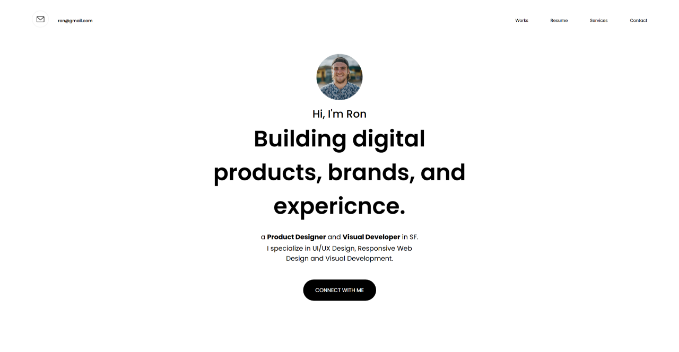
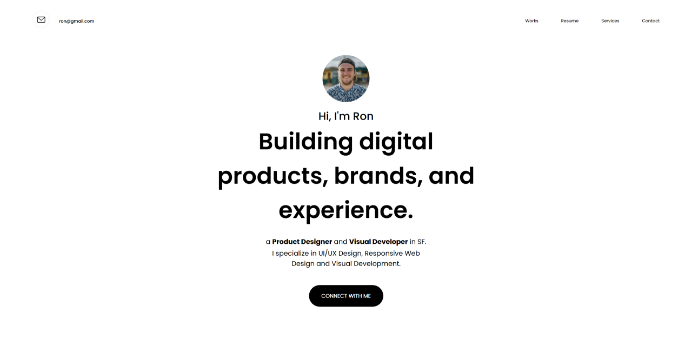
changed one portfolio img

diff --git a/index.html b/index.html
@@ -131,8 +131,15 @@
 					</div>
 				</div>
 				<div class="col-lg-6 about-content wow fadeInLeft" data-wow-duration=".2s" data-wow-delay=".6s">
-					<p>Living in the 21st century, it has become a necessity to have a website for your business, whether it be big or small. Without a website, you are potentially losing a great number of opportunities for your business. A website for your business helps to accomplish a number of different marketing strategies that allows for rapid growth of your business. </p>
-					<p>Taking a concept as simple as 'reach', the web has a far wider reach than any other form of advertising. This has been proven time and time again by various different marketing strategists. A businesses website is the center of your online presence... Through this website, you advertise your business worldwide through various different social networking sites, forums and through pay per click advertising programs.</p>
+					<p>Living in the 21st century, it has become a necessity to have a website for your business,
+						whether it be big or small. Without a website, you are potentially losing a great number of
+						opportunities for your business. A website for your business helps to accomplish a number of
+						different marketing strategies that allows for rapid growth of your business. </p>
+					<p>Taking a concept as simple as 'reach', the web has a far wider reach than any other form of
+						advertising. This has been proven time and time again by various different marketing
+						strategists. A businesses website is the center of your online presence... Through this website,
+						you advertise your business worldwide through various different social networking sites, forums
+						and through pay per click advertising programs.</p>
 					<p>Allow us to make this possible for you!</p>
 					<!-- <div class="skills">
 						<span class="skill">Design</span>
@@ -190,7 +197,8 @@
 					<div class="feature-box">
 						<span class="lnr lnr-bubble"></span>
 						<h4>24/7 Support</h4>
-						<p>Our team firmly believes that support is one of the most fundamental activities to achieve succesful implementation.</p>
+						<p>Our team firmly believes that support is one of the most fundamental activities to achieve
+							succesful implementation.</p>
 					</div>
 				</div>
 			</div>
@@ -212,12 +220,13 @@
 			<div class="row">
 				<div class="col-md-6 col-lg-4 portfolio-item">
 					<div class="item-img">
-						<img src="assets/img/Ron.png" alt="1">
+						<img src="assets/img/ron.png" alt="1">
 					</div>
 					<div class="item-info">
 						<h3 class="heading-3">Portfolio Item</h3>
 						<p class="p-text">A portfolio website for a Product Designer and Visual Developer.</p>
-						<a href="assets/img/Ron-full-screen.png" data-lightbox="image-1" data-title="Portfolio Item" class="link-text">Full VIew</a>
+						<a href="assets/img/ron-full-screen.png" data-lightbox="image-1" data-title="Portfolio Item"
+							class="link-text">Full VIew</a>
 					</div>
 				</div>
 				<div class="col-md-6 col-lg-4 portfolio-item">
@@ -226,8 +235,10 @@
 					</div>
 					<div class="item-info">
 						<h3 class="heading-3">Portfolio Item</h3>
-						<p class="p-text">A landing page for a graphic designer, photographer and where stunning graphics are displayed.</p>
-						<a href="assets/img/kerri-full-screen.png" data-lightbox="image-2" data-title="Portfolio Item" class="link-text">Full VIew</a>
+						<p class="p-text">A landing page for a graphic designer, photographer and where stunning
+							graphics are displayed.</p>
+						<a href="assets/img/kerri-full-screen.png" data-lightbox="image-2" data-title="Portfolio Item"
+							class="link-text">Full VIew</a>
 					</div>
 				</div>
 				<div class="col-md-6 col-lg-4 portfolio-item">
@@ -236,8 +247,10 @@
 					</div>
 					<div class="item-info">
 						<h3 class="heading-3">Portfolio Item</h3>
-						<p class="p-text">A portfolio website that works as a marketing tool that can be used to  highlight key work</p>
-						<a href="assets/img/stewartclay-full-screen.png" data-lightbox="image-3" data-title="Portfolio Item" class="link-text">Full VIew</a>
+						<p class="p-text">A portfolio website that works as a marketing tool that can be used to
+							highlight key work</p>
+						<a href="assets/img/stewartclay-full-screen.png" data-lightbox="image-3"
+							data-title="Portfolio Item" class="link-text">Full VIew</a>
 					</div>
 				</div>
 				<!-- <div class="col-md-6 col-lg-4 portfolio-item">
@@ -281,7 +294,8 @@
 	<section id="call-to-action">
 		<div class="container">
 			<h1 class="wow fadeInDown" data-wow-duration=".2s" data-wow-delay=".4s">Hire Us For Your Next Project.</h1>
-			<a href="#contact" class="btn btn-transparent wow fadeInUp" data-wow-duration=".2s" data-wow-delay=".6s">Let's Work Together</a>
+			<a href="#contact" class="btn btn-transparent wow fadeInUp" data-wow-duration=".2s"
+				data-wow-delay=".6s">Let's Work Together</a>
 		</div>
 	</section>
 
@@ -300,7 +314,8 @@
 						</div>
 						<div class="service-content">
 							<h5>Mobile Apps</h5>
-							<p>Using flutter, our team develops native applications giving the users a consistent experience on all platforms</p>
+							<p>Using flutter, our team develops native applications giving the users a consistent
+								experience on all platforms</p>
 						</div>
 					</div>
 				</div>
@@ -311,7 +326,8 @@
 						</div>
 						<div class="service-content">
 							<h5>E-Commerce</h5>
-							<p>From start-ups to established businesses, we are able to provide your clients with an excellent online shopping experience</p>
+							<p>From start-ups to established businesses, we are able to provide your clients with an
+								excellent online shopping experience</p>
 						</div>
 					</div>
 				</div>
@@ -322,7 +338,8 @@
 						</div>
 						<div class="service-content">
 							<h5>Web Redesign</h5>
-							<p>Your current online presence outdated? We will redesign your current website and modernise it to give your clients the experience they deserve.</p>
+							<p>Your current online presence outdated? We will redesign your current website and
+								modernise it to give your clients the experience they deserve.</p>
 						</div>
 					</div>
 				</div>
@@ -333,7 +350,8 @@
 						</div>
 						<div class="service-content">
 							<h5>Web Design</h5>
-							<p>Mockups and Demos are the key to success, we firmly believe in the design process before implementation.</p>
+							<p>Mockups and Demos are the key to success, we firmly believe in the design process before
+								implementation.</p>
 						</div>
 					</div>
 				</div>
@@ -361,8 +379,10 @@
 				</div>
 			</div>
 			<div class="row">
-				<div class="col-lg-8 col-sm-offset-2 text-center mx-auto bottom-caption wow fadeInDown" data-wow-duration=".2s" data-wow-delay=".4s">
-					<p>All of the above are done in house allowing for utmost consistency and quality accross the board.</p>
+				<div class="col-lg-8 col-sm-offset-2 text-center mx-auto bottom-caption wow fadeInDown"
+					data-wow-duration=".2s" data-wow-delay=".4s">
+					<p>All of the above are done in house allowing for utmost consistency and quality accross the board.
+					</p>
 					<a href="#" class="btn btn-primary">Start a Project</a>
 				</div>
 			</div>
@@ -391,7 +411,7 @@
 						<div class="value">
 							<span class="per">Starting From R</span>
 							<h2>3999</h2>
-							
+
 						</div>
 						<div class="features">
 							<ul>
@@ -440,7 +460,7 @@
 						<div class="value">
 							<span class="per">Starting From R</span>
 							<h2>12499</h2>
-							
+
 						</div>
 						<div class="features">
 							<ul>
@@ -472,7 +492,7 @@
 						<div class="value">
 							<span class="per">Starting From R</span>
 							<h2>3499</h2>
-							
+
 						</div>
 						<div class="features">
 							<ul>
@@ -482,11 +502,8 @@
 								<li>Google Map</li>
 								<li>2 x Demo Designs</li>
 								<li>*Excludes Wordpress Fees</li>
-								
 								<li>-</li>
 								<li>-</li>
-								
-
 							</ul>
 						</div>
 						<div class="order">
@@ -531,7 +548,7 @@
 						<div class="value">
 							<span class="per">Starting From R</span>
 							<h2>12850</h2>
-							
+
 						</div>
 						<div class="features">
 							<ul>
@@ -566,7 +583,7 @@
 						<div class="value">
 							<span class="per">Starting From R</span>
 							<h2>18999</h2>
-							
+
 						</div>
 						<div class="features">
 							<ul>
@@ -579,7 +596,7 @@
 								<li>*Excludes Developer Account Fees</li>
 								<li>-</li>
 								<li>-</li>
-								
+
 
 							</ul>
 						</div>
@@ -609,9 +626,9 @@
 								<li>8 Pages</li>
 								<li>*Excludes Developer Account Fees</li>
 								<li>-</li>
-								
 
-								
+
+
 
 							</ul>
 						</div>
@@ -629,7 +646,7 @@
 						<div class="value">
 							<span class="per">Starting From R</span>
 							<h2>38999</h2>
-							
+
 						</div>
 						<div class="features">
 							<ul>
@@ -642,7 +659,7 @@
 								<li>Flutter Admob</li>
 								<li>8+ Pages</li>
 								<li>*Excludes Developer Account Fees</li>
-								
+
 
 							</ul>
 						</div>
@@ -668,35 +685,44 @@
 		<div class="container">
 			<h2>Testimonials</h2>
 			<div class="row">
-				<div class="col-lg-8 col-sm-offset-2 mx-auto wow fadeInDown" data-wow-duration=".2s" data-wow-delay=".4s">
+				<div class="col-lg-8 col-sm-offset-2 mx-auto wow fadeInDown" data-wow-duration=".2s"
+					data-wow-delay=".4s">
 					<div class="owl-carousel owl-testimonials">
 						<div class="item">
 							<img src="assets/img/person 4.png" class="img-fluid" alt="client-1">
 							<h6>Tyrone Slater</h6>
 							<span>CEO</span>
 							<span class="lnr lnr-smile"></span>
-							<p class="quote">"The SimplX team educated me on the necessity of having a website for my business. From start to finish, they made the development process hassle free and provided me with an outstanding product. I would highly recommend!"</p>
+							<p class="quote">"The SimplX team educated me on the necessity of having a website for my
+								business. From start to finish, they made the development process hassle free and
+								provided me with an outstanding product. I would highly recommend!"</p>
 						</div>
 						<div class="item">
 							<img src="assets/img/person 3.png" class="img-fluid" alt="client-2">
 							<h6>Alma Reid</h6>
 							<span>CEO</span>
 							<span class="lnr lnr-smile"></span>
-							<p class="quote">"Thanks to SimplX, our company has been able to reach more customers and create an online presence. Forever grateful!"</p>
+							<p class="quote">"Thanks to SimplX, our company has been able to reach more customers and
+								create an online presence. Forever grateful!"</p>
 						</div>
 						<div class="item">
 							<img src="assets/img/person 2.png" class="img-fluid" alt="client-3">
 							<h6>CEO</h6>
 							<span>Web Developer</span>
 							<span class="lnr lnr-smile"></span>
-							<p class="quote">"Team SimplX built a custom coded website for the advertising of my services. They offered me a solution that no one else could. They reduced my monthly website hosting fee from R208.28 per month to R75 a month for hosting my website. They launched my new website and i will never look back."</p>
+							<p class="quote">"Team SimplX built a custom coded website for the advertising of my
+								services. They offered me a solution that no one else could. They reduced my monthly
+								website hosting fee from R208.28 per month to R75 a month for hosting my website. They
+								launched my new website and i will never look back."</p>
 						</div>
 						<div class="item">
 							<img src="assets/img/person 1.png" class="img-fluid" alt="client-4">
 							<h6>CEO</h6>
 							<span>Graphic Designer</span>
 							<span class="lnr lnr-smile"></span>
-							<p class="quote">"My business had products to sell but with COVID-19, this wasn't possible. SimplX came to the resecure and developed an online E-Commerce store. This allowed our customers to buy again. Thanks SimplX!"</p>
+							<p class="quote">"My business had products to sell but with COVID-19, this wasn't possible.
+								SimplX came to the resecure and developed an online E-Commerce store. This allowed our
+								customers to buy again. Thanks SimplX!"</p>
 						</div>
 					</div>
 				</div>
@@ -721,7 +747,8 @@
 							<h4>Stewart Clay</h4>
 							<p>CEO Founder</p>
 							<ul class="social-media">
-								<li><a href="https://www.linkedin.com/in/stewart-clay-7a1abb128/" target="_blank" ><i class="fab fa-linkedin"></i></a></li>
+								<li><a href="https://www.linkedin.com/in/stewart-clay-7a1abb128/" target="_blank"><i
+											class="fab fa-linkedin"></i></a></li>
 								<!-- <li><a href="#"><i class="fab fa-twitter"></i></a></li>
 								<li><a href="#"><i class="fab fa-google-plus-g"></i></a></li> -->
 							</ul>
@@ -737,7 +764,8 @@
 							<h4>Donovan Kruger</h4>
 							<p>CEO Founder</p>
 							<ul class="social-media">
-								<li><a href="https://www.linkedin.com/in/donovan-kruger-a0998919b/"  target="_blank"><i class="fab fa-linkedin"></i></a></li>
+								<li><a href="https://www.linkedin.com/in/donovan-kruger-a0998919b/" target="_blank"><i
+											class="fab fa-linkedin"></i></a></li>
 								<!-- <li><a href="#"><i class="fab fa-twitter"></i></a></li>
 								<li><a href="#"><i class="fab fa-google-plus-g"></i></a></li> -->
 							</ul>
@@ -784,10 +812,13 @@
 					<p>(+27) 83 229 3547</p>
 					<!-- <p>2100/32 New York, Adress example, lorem ipsum. <b>USA</b></p> -->
 					<ul class="social-media">
-						<li><a href="https://www.facebook.com/SimplXDevelopment" target="_blank"><i class="fab fa-facebook-f"></i></a></li>
-						<li><a href="https://twitter.com/SimplX3" target="_blank"><i class="fab fa-twitter"></i></a></li>
+						<li><a href="https://www.facebook.com/SimplXDevelopment" target="_blank"><i
+									class="fab fa-facebook-f"></i></a></li>
+						<li><a href="https://twitter.com/SimplX3" target="_blank"><i class="fab fa-twitter"></i></a>
+						</li>
 						<!-- <li><a href="#" target="_blank"><i class="fab fa-google-plus-g"></i></a></li> -->
-						<li><a href="https://www.linkedin.com/company/simplx-africa" target="_blank"><i class="fab fa-linkedin"></i></a></li>
+						<li><a href="https://www.linkedin.com/company/simplx-africa" target="_blank"><i
+									class="fab fa-linkedin"></i></a></li>
 					</ul>
 				</div>
 				<div class="col-lg-8 wow fadeInLeft" data-wow-duration=".2s" data-wow-delay=".6s">
@@ -803,7 +834,8 @@
 						</div>
 						<!-- Form Group -->
 						<div class="form-group wow fadeInLeft" data-wow-duration=".2s" data-wow-delay=".6s">
-							<textarea name="message" id="form-message" cols="30" rows="5" class="form-control" placeholder="Message:" required></textarea>
+							<textarea name="message" id="form-message" cols="30" rows="5" class="form-control"
+								placeholder="Message:" required></textarea>
 						</div>
 						<button type="submit" class="btn btn-primary">Send a Message</button>
 					</form>
@@ -815,7 +847,7 @@
 	<!-- ==============================================
     FOOTER
     ============================================== -->
-<!-- 
+	<!-- 
 	<footer>
 		<div class="container">
 			<div class="row">
